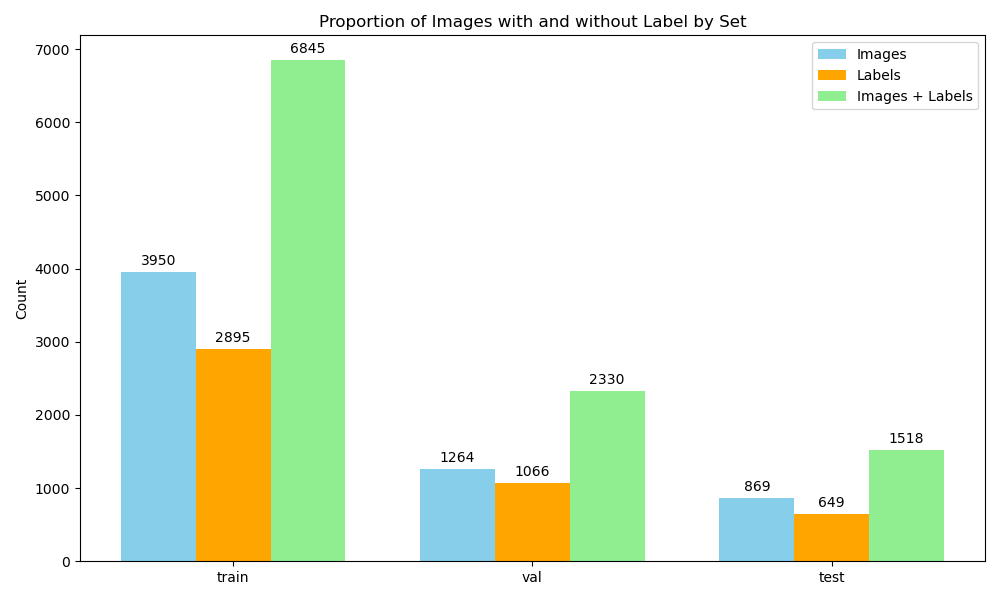
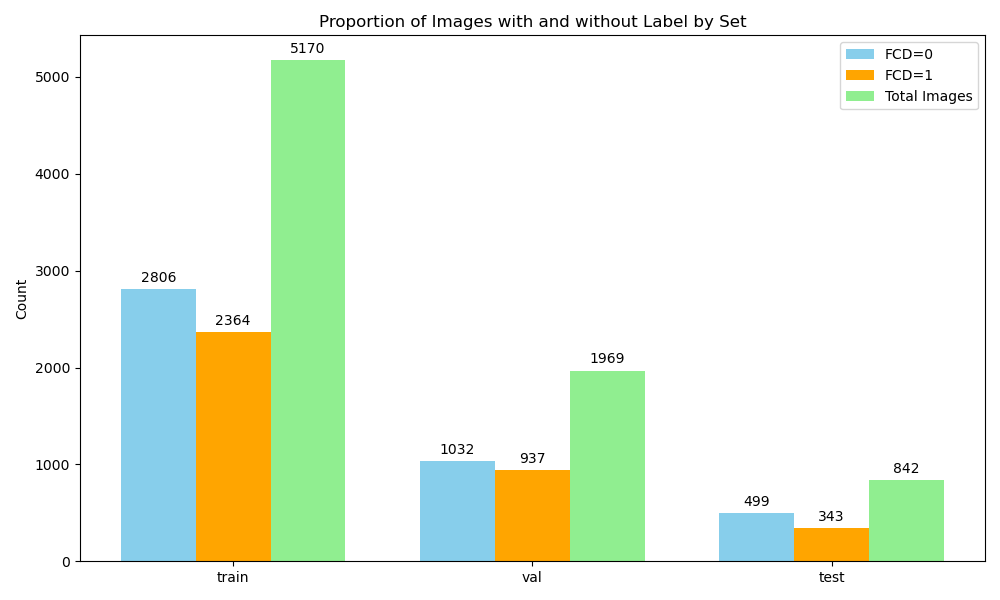
Holdout fixed: Patient and AUG for each set

diff --git a/src/data_explore.py b/src/data_explore.py
@@ -2,7 +2,109 @@ import os
 import matplotlib.pyplot as plt
 import numpy as np
 from tqdm import tqdm
+import nibabel as nib
+from typing import List, Tuple, Dict
+import cv2
+import math
+from concurrent.futures import ThreadPoolExecutor, as_completed
+import glob
+import matplotlib
+matplotlib.use('Agg')
 
+class DataExplore:
+
+    def __init__(self, study_path: str, roi_path: str, dataset_path: str, save_path: str) -> None:
+        self.study_path = study_path
+        self.roi_path = roi_path
+        self.dataset_path = dataset_path
+        self.save_path = save_path
+        self.valid_roi_slices: Dict[str, List[int]] = {}
+        self.__find_valid_roi_slices__()
+
+    # Find valid slices for each patient. We consider a slice as valir
+    # if its corresponding roi's contour has at least 5 points
+    def __process_roi_file__(self, roi_file: str) -> Tuple[str, List[int]]:
+        valid_slices = []
+        roi_path = os.path.join(self.roi_path, roi_file)
+        roi_img = nib.load(roi_path)
+        roi_data = roi_img.get_fdata()
+
+        for i in range(roi_data.shape[2]):
+            slice_data = roi_data[:, :, i]
+            slice_data = np.array(slice_data, dtype=np.uint8)
+            contours, _ = cv2.findContours(slice_data, cv2.RETR_EXTERNAL, cv2.CHAIN_APPROX_SIMPLE)
+            if contours and math.ceil(len(contours[0]) / 2) > 3:
+                valid_slices.append(i)
+
+        return (roi_file, valid_slices)
+
+    # Apply the function process_roi_file concurrently
+    def __find_valid_roi_slices__(self) -> None:
+        with ThreadPoolExecutor() as executor:
+            futures = []
+
+            for roi_file in os.listdir(self.roi_path):
+                if roi_file.endswith('.nii.gz'):
+                    futures.append(executor.submit(self.__process_roi_file__, roi_file))
+
+            for future in as_completed(futures):
+                patient_id, valid_slices = future.result()
+                if valid_slices:
+                    self.valid_roi_slices[patient_id] = valid_slices
+
+    def dataset_integrity(self):
+        exclude = list(range(0, 121)) + list(range(200, 257))
+        total_images = []
+        images_found = []
+        total_labels = []
+        labels_found = []
+        for file_name in self.valid_roi_slices.keys():
+            id_patient, augmentation_type = file_name.split('_')[0], file_name.split('_')[-2]
+            if augmentation_type in ["gamma", "brightness", "flip", "shift"]:
+                output_format_image = f"{id_patient}_slice-{{slice}}_{augmentation_type}.png"
+                output_format_label = f"{id_patient}_slice-{{slice}}_{augmentation_type}.txt"
+            else:
+                output_format_image = f"{id_patient}_slice-{{slice}}.png"
+                output_format_label = f"{id_patient}_slice-{{slice}}.txt"
+            for slice in self.valid_roi_slices.get(file_name):
+                if augmentation_type not in ["gamma", "brightness", "flip", "shift"] and slice in exclude:
+                    continue
+                output_file_image = output_format_image.format(slice=slice)
+                output_file_label = output_format_label.format(slice=slice)
+                file_found = False  # Control variable
+                for set_folder in ["train", "val", "test"]:
+                    image_path = os.path.join(self.study_path, "images", set_folder, output_file_image)
+                    label_path = os.path.join(self.study_path, "labels", set_folder, output_file_label)
+                    
+                    total_labels.append(label_path)
+                    total_images.append(image_path)
+
+                    if os.path.exists(image_path) and os.path.exists(label_path):
+                        file_found = True
+                        total_labels.append(label_path)
+                        images_found.append(image_path)
+                        # File found in this set, no need to check further
+                        break  # Exit the for loop for set_folder
+        return total_images, images_found, total_labels, labels_found
+    
+    def plot_this(self, total_images, images_found, total_labels, labels_found):
+        categories = ['Total Images', 'Images Found', 'Total Labels', 'Labels Found']
+        values = [len(total_images), len(images_found), len(total_labels), len(labels_found)]
+        
+        plt.figure(figsize=(10, 6))
+        plt.bar(categories, values, color=['blue', 'green', 'red', 'orange'])
+        plt.title('Dataset Integrity Check')
+        plt.ylabel('Count')
+        for i, v in enumerate(values):
+            plt.text(i, v + 5, str(v), ha='center')
+        
+        diff_images = 100 * (len(total_images) - len(images_found)) / len(total_images)
+        diff_labels = 100 * (len(total_labels) - len(labels_found)) / len(total_labels)
+        print(f"Diferencia en % (Imágenes): {diff_images}%")
+        print(f"Diferencia en % (Etiquetas): {diff_labels}%")
+        
+        plt.savefig(os.path.join(self.save_path, "dataset_integrity.png"))
+        plt.close()
 
 def analyze_dataset(base_path, save_path):
     # Subdirectorios a analizar
@@ -17,12 +119,12 @@ def analyze_dataset(base_path, save_path):
         label_path = os.path.join(base_path, "labels", set_name)
         
         # Contar imágenes y etiquetas
-        num_images = len([name for name in os.listdir(image_path) if name.endswith('.png')])
+        total = len([name for name in os.listdir(image_path) if name.endswith('.png')])
         num_labels = len([name for name in os.listdir(label_path) if name.endswith('.txt')])
         
-        total = num_images + num_labels
+        num_images = total - num_labels
+
         total_counts.append(total)
-        
         image_counts.append(num_images)
         label_counts.append(num_labels)
 
@@ -34,9 +136,9 @@ def analyze_dataset(base_path, save_path):
         return
 
     fig, ax = plt.subplots(figsize=(10, 6))
-    rects2 = ax.bar(x - width, image_counts, width, label='Images', color='skyblue')
-    rects3 = ax.bar(x, label_counts, width, label='Labels', color='orange')
-    rects1 = ax.bar(x + width, total_counts, width, label='Images + Labels', color='lightgreen')
+    rects2 = ax.bar(x - width, image_counts, width, label='FCD=0', color='skyblue')
+    rects3 = ax.bar(x, label_counts, width, label='FCD=1', color='orange')
+    rects1 = ax.bar(x + width, total_counts, width, label='Total Images', color='lightgreen')
 
     # Etiquetas y títulos
     ax.set_ylabel('Count')
@@ -72,11 +174,17 @@ def analyze_dataset(base_path, save_path):
     # Cerrar la figura para liberar memoria
     plt.close()
 
-def main():
-    path = "/home/mariopasc/Python/Datasets/T2FLAIR-ds-epilepsy"
-    analyze_dataset(base_path=path,
-                    save_path="/home/mariopasc/Python/Projects/BSC_final/epilepsy-displasia-focal-segmentation/images")
 
+
+
+def main():
+    results_path = "/home/mariopasc/Python/Projects/BSC_final/epilepsy-displasia-focal-segmentation/images"
+    dataExplorer = DataExplore(study_path="/home/mariopasc/Python/Datasets/ds-epilepsy/T2FLAIR",
+                               roi_path="/home/mariopasc/Python/Datasets/ds-epilepsy/ROI_T2",
+                               dataset_path="/home/mariopasc/Python/Datasets/T2FLAIR-ds-epilepsy",
+                               save_path=results_path)
+    analyze_dataset("/home/mariopasc/Python/Datasets/T2FLAIR-ds-epilepsy", 
+                    results_path)
 
 if __name__ == "__main__":
     main()

diff --git a/src/data_loader.py b/src/data_loader.py
@@ -8,7 +8,7 @@ import nibabel as nib
 import cv2
 import numpy as np
 from tqdm import tqdm
-
+from itertools import chain
 
 class DataLoader:
     def __init__(self, dataset_path: str) -> None:
@@ -71,7 +71,7 @@ class HoldOut:
         self.test_percent = test_percent
         self.dataset_path = dataset_path
         self.__holdoutNiigz__()
-        self.__holdout__()
+        
 
     def __holdoutNiigz__(self) -> None:
         self.train_set.clear()
@@ -105,32 +105,33 @@ class HoldOut:
         except Exception as e:
             print(f"Failed to load {nii_path}: {e}")
             return
-
+        
         # Extract patient ID and augmentation type from the file name
         file_name = os.path.basename(nii_path)
         id_patient, augmentation_type = file_name.split('_')[0], file_name.split('_')[-2]
-
         # Determine the output file name format based on the augmentation type
         if augmentation_type in ["gamma", "brightness", "flip", "shift"]:
             output_format = f"{id_patient}_slice-{{i}}_{augmentation_type}.png"
         else:
             output_format = f"{id_patient}_slice-{{i}}.png"
-
         # Convert each slice to a .png file
         exclude = list(range(0, 121)) + list(range(200, 257))
         for i in range(nii_data.shape[2]):
-            if i not in exclude:
-                slice_data = nii_data[:, :, i]
-                # Normalize the slice data to the range [0, 255]
-                slice_normalized = cv2.normalize(slice_data, None, 0, 255, cv2.NORM_MINMAX)
-                slice_uint8 = np.uint8(slice_normalized)
-                # Construct the output file name
-                output_file_name = output_format.format(i=i)
-                output_file_path = os.path.join(output_path, output_file_name)
-                # Save the slice as a .png file
-                cv2.imwrite(output_file_path, slice_uint8)
-
-    def __roiContours__(self, nii_path: str, output_path: str):
+            if output_format == f"{id_patient}_slice-{{i}}.png":
+                if i in exclude:
+                    continue
+            slice_data = nii_data[:, :, i]
+            # Normalize the slice data to the range [0, 255]
+            slice_normalized = cv2.normalize(slice_data, None, 0, 255, cv2.NORM_MINMAX)
+            slice_uint8 = np.uint8(slice_normalized)
+            # Construct the output file name
+            output_file_name = output_format.format(i=i)
+            output_file_path = os.path.join(output_path, output_file_name)
+            # Save the slice as a .png file
+            cv2.imwrite(output_file_path, slice_uint8)        
+            
+                
+    def __roiContours__(self, nii_path: str, output_path: str) -> None:
         roi_path = os.path.join(self.dataset_path, self.roi_study)
         # Obtain the corresponding ROI niigz file
         id_patient = (nii_path.split('/')[-1]).split("_")[0]
@@ -163,14 +164,28 @@ class HoldOut:
                                       width=slice.shape[1],
                                       output_path=output_file_path)
 
-    def __contoursYOLO__(self, contours: List[List[int]], height: int, width: int, output_path: str):
+    def __contoursYOLO__(self, contours: List[List[int]], height: int, width: int, output_path: str) -> None:
         with open(output_path, 'w') as f:
             for contour in contours:
                 normalized = contour.squeeze().astype('float') / np.array([width, height])
                 str_contour = ' '.join([f"{coord:.6f}" for coord in normalized.flatten()])
                 f.write(f"0 {str_contour}\n")
 
-    def __holdout__(self):
+    def organizeAugmentation(self) -> None:  
+        study_path = os.path.join(self.dataset_path, self.study_name)
+        patients_train = [patient.split("_")[0] + "*" for patient in self.train_set]
+        train_all = list(chain(*[glob.glob(os.path.join(study_path, patientAug)) for patientAug in patients_train]))
+        self.train_set = [os.path.basename(item) for item in train_all]
+
+        patients_val = [patient.split("_")[0] + "*" for patient in self.val_set]
+        val_all = list(chain(*[glob.glob(os.path.join(study_path, patientAug)) for patientAug in patients_val]))
+        self.val_set = [os.path.basename(item) for item in val_all]
+
+        patients_test = [patient.split("_")[0] + "*" for patient in self.test_set]
+        test_all = list(chain(*[glob.glob(os.path.join(study_path, patientAug)) for patientAug in patients_test]))
+        self.test_set = [item.split("/")[-1] for item in test_all]
+
+    def holdout(self) -> None:
         # Create folder structure
         base_path = os.path.join(self.dataset_path, "..", f"{self.study_name}-ds-epilepsy")
         if (not os.path.exists(base_path)):

diff --git a/src/data_pipeline.py b/src/data_pipeline.py
@@ -1,14 +1,18 @@
 import data_loader
 import data_augmentation
+import data_explore
 
 def main():
     dl_instance = data_loader.DataLoader(dataset_path="/home/mariopasc/Python/Datasets/epilepsy")
     dataaug_instance = data_augmentation.DataAugmentation(study_path="/home/mariopasc/Python/Datasets/ds-epilepsy/T2FLAIR",
                                         roi_path="/home/mariopasc/Python/Datasets/ds-epilepsy/ROI_T2")
-    dataaug_instance.apply_augmentations(augmentation_types=["brightness", "gamma"],
-                                         num_patients=100)
     holdout_instance = data_loader.HoldOut(dataset_path="/home/mariopasc/Python/Datasets/ds-epilepsy",
-                               study_name="T2FLAIR", roi_study="ROI_T2", val_percent=.2, test_percent=.1)
+                               study_name="T2FLAIR", roi_study="ROI_T2", val_percent=.25, test_percent=.1)
+    dataaug_instance.apply_augmentations(augmentation_types=["brightness", "gamma"], num_patients=85)
+    holdout_instance.organizeAugmentation()
+    holdout_instance.holdout()
+    results_path = "/home/mariopasc/Python/Projects/BSC_final/epilepsy-displasia-focal-segmentation/images"
+    data_explore.analyze_dataset("/home/mariopasc/Python/Datasets/T2FLAIR-ds-epilepsy", results_path)
 
 if __name__ == "__main__":
     main()

diff --git a/src/data_augmentation.py b/src/data_augmentation.py
@@ -69,7 +69,6 @@ class DataAugmentation:
             for future in tasks_progress:
                 future.result() # Here you can handle results or exceptions if necessary
 
-
     # Finds the patient's .nii.gz files, but excludes the ones that have the augmentation type applied in its name
     def _find_files(self, path: str, patient_id: str, exclude_keywords: List[str]) -> List[str]:
         all_files = glob.glob(os.path.join(path, f'{patient_id}*.nii.gz'))
